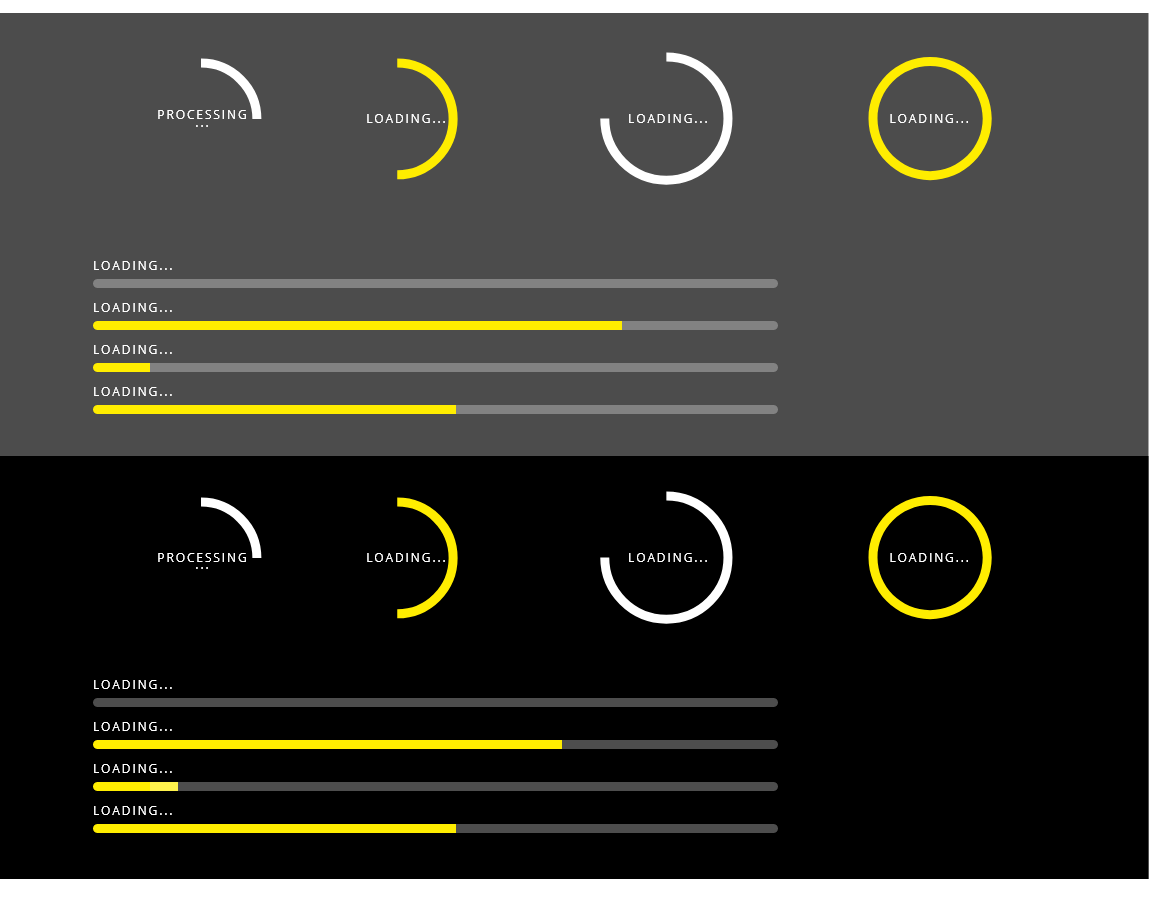
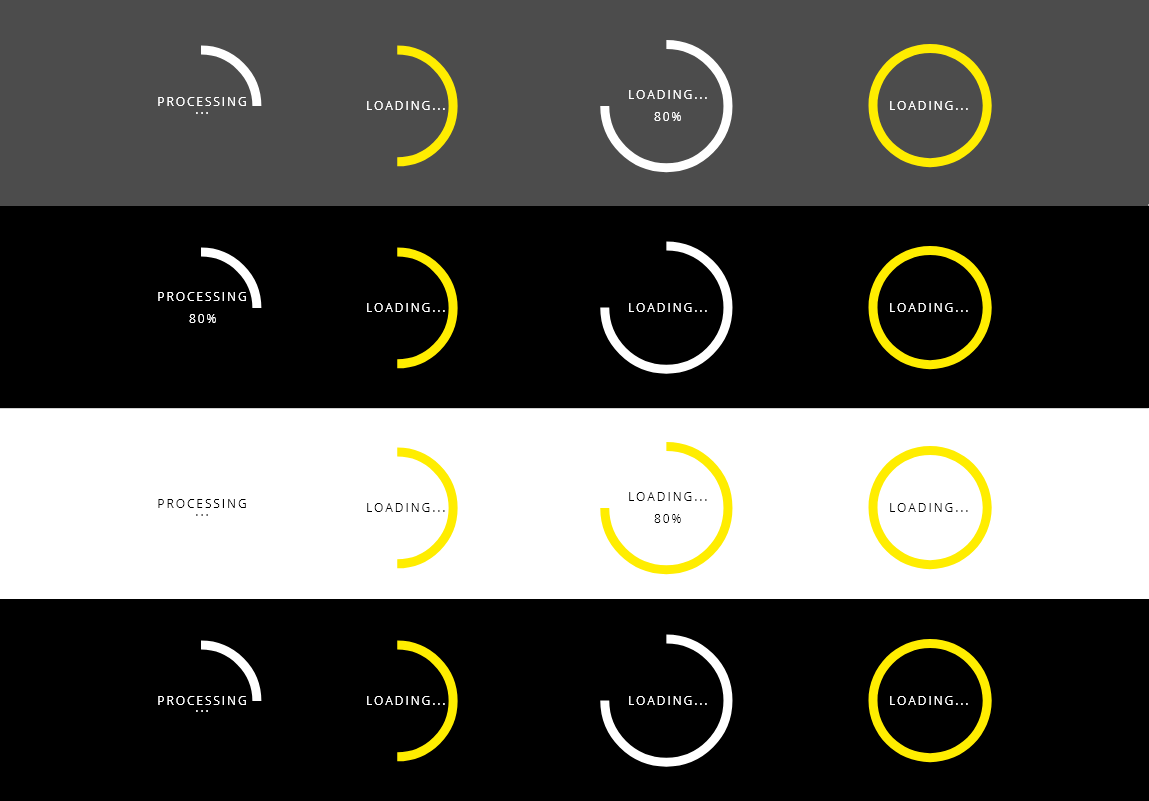
Updating spinner content and images

diff --git a/components/spinner/README.md b/components/spinner/README.md
@@ -4,20 +4,18 @@
 
 Loading spinner is a waiting indicator in the user interface to communicate your users that something is going on with the application and it will take a while. One of the problems that spinners have is that they don't indicate how much time the operation is going to take, for that reason the design system is including different resources to manage this consuming time for the app of taking resources.
 
-Another mode instead of the circular one is proposed in this style guide, the linear type. With this mode the user can have a better estimation of the time but anyway it is a undetermine type so the user even doesn't have feedback about the time. One rule to follow with this component if the process is going to take more than 10 seconds, it is recommendable that some features like a counter or some value be linked to the component to make clear to the user the time that is going to take the processing of the information.
+One rule to follow with this component if the process is going to take more than 10 seconds, it is recommendable that some features like a counter or some value be linked to the component to make clear to the user the time that is going to take the processing of the information.
 
 ## Appearance
 
 The appearance of the component is widely recognized through applications.
-In the circular variation, the style is a circle with a border that is spinning forever, changing the color from yellow to white in every turn.
+In the circular version, the style is a circle with a border that is spinning forever, changing the color from yellow to white in every turn.
 
-With the other approach, the linear type the concept is the same but instead of circular, the progression of the bar is in a flat and linear way.
-
-Both modes are undetermined, that means that they don't have logic or stepper process.
+One of the spinner mode is undeterminated, that means that they don't have logic or stepper process.
 
 ### Modes
 
-A couple of modes are defined for the spinner component, based on the visual representation the spinner can be __circular__ or __linear__.
+There is only one mode in the spinner component, based on the visual reprsentation the spinner has the characteristic to be __circular__.
 
 ![Spinner modes, circular and linear](images/spinner_modes.png)
 
@@ -28,13 +26,13 @@ As it is auto-management, for now, states are not contemplated.
 
 ## Theming
 
-There is no difference between the light and dark theme because the visual appereance will keep the same either is a light or a dark look.
+There is no difference between the light and dark theme unless the overlay is not included because the visual appereance will keep the same either is a light or a dark look.
 
 An overlay separets the main application from the spinner component, making a layer to show that some action is in process. The overlay is the same used for dialog and alert components, making focus on the action that is taking place in that concrete moment.
 
-It is another possibility to use the spinner within other component, for example, when the user clicks in a button, or the application has to do an action that will take some time, the spinner can be displayed without the overlay for those specific scenarios.
+It is another possibility to use the spinner within other component, for example, when the user clicks in a button, or the application has to do an action that will take some time, the spinner can be displayed without the overlay for those specific scenarios, so the color specifications will change accordingly.
 
-The color used in this component are:
+The colors used in this component are:
 
 Yellow: #FFED00  
 White: #FFFFFF  
